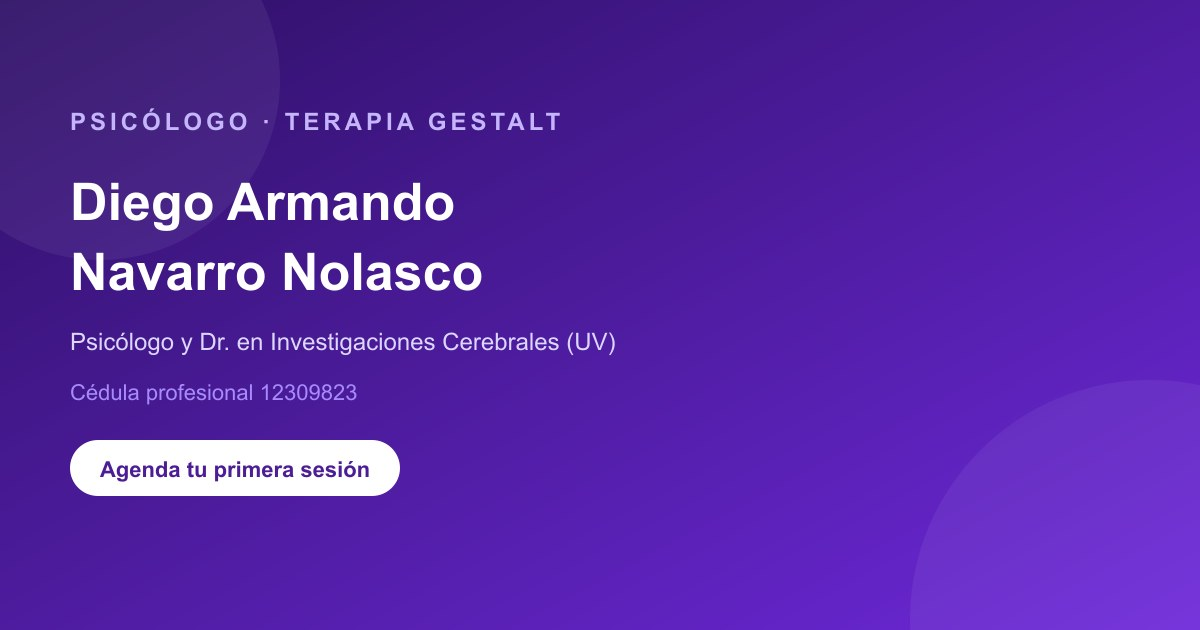
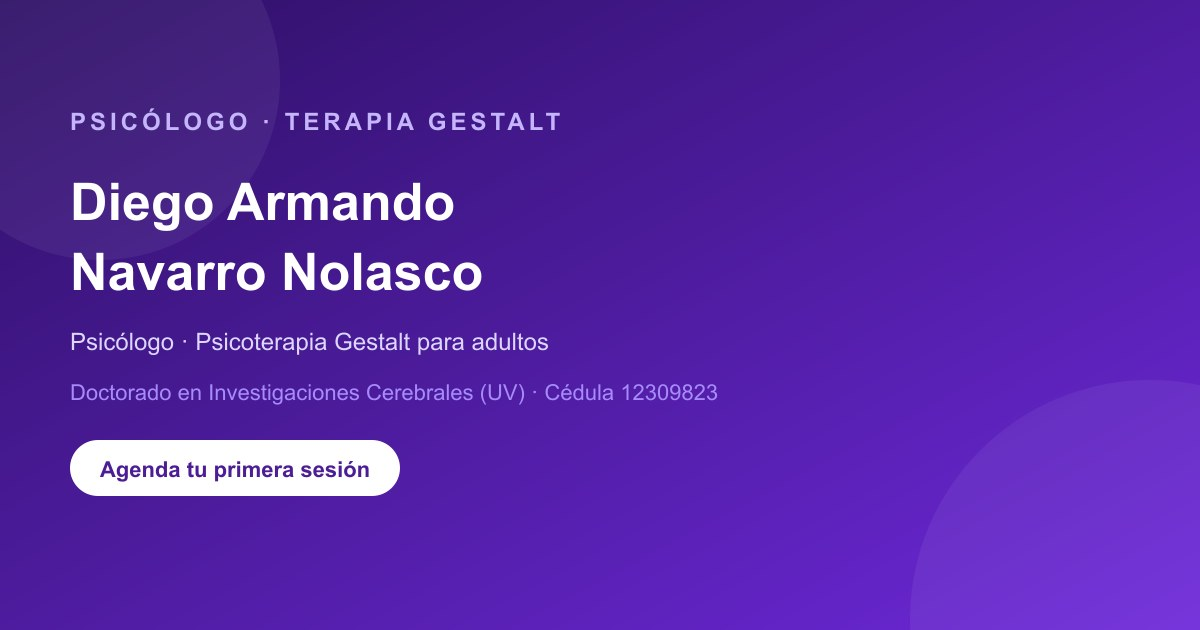
fix: dictamen - quitar Dr. (grado en proceso), JSON-LD Person+ProfessionalService, lenguaje cientifico prudente, enlaces y avisos

Changed region(s): [[0.1542, 0.5127, 0.5242, 0.573], [0.0617, 0.6032, 0.6167, 0.6333]]

diff --git a/src/app/page.tsx b/src/app/page.tsx
@@ -1,4 +1,4 @@
-import { Metadata } from 'next';
+import { MessageSquare } from 'lucide-react';
 import Hero from '@/components/Hero';
 import About from '@/components/About';
 import Services from '@/components/Services';
@@ -7,11 +7,6 @@ import Research from '@/components/Research';
 import Contact from '@/components/Contact';
 import Footer from '@/components/Footer';
 import JsonLd from '@/components/JsonLd';
-
-export const metadata: Metadata = {
-  title: 'Diego Armando Navarro Nolasco | Psicólogo Gestalt y Dr. en Neurociencias | Xalapa',
-  description: 'Terapia Gestalt para adultos con enfoque en el aquí y ahora. Doctor en Investigaciones Cerebrales (UV). Presencial en Xalapa y en línea. Agenda tu cita.',
-};
 
 export default function HomePage() {
   return (
@@ -31,7 +26,7 @@ export default function HomePage() {
           </div>
           <div className="flex md:hidden items-center gap-4">
             <a href="https://wa.me/523316360640" target="_blank" rel="noopener noreferrer" className="btn-whatsapp text-sm px-4 py-2" aria-label="Contactar por WhatsApp">
-              <svg className="w-5 h-5" fill="currentColor" viewBox="0 0 24 24" aria-hidden="true"><path d="M17.472 14.382c-.297-.149-1.758-.867-2.03-.967-.273-.099-.471-.148-.67.15-.197.297-.767.966-.94 1.164-.173.199-.347.223-.644.075-.297-.15-1.255-.463-2.39-1.475-.883-.788-1.48-1.761-1.653-2.059-.173-.297-.018-.458.13-.606.134-.133.298-.347.446-.52.149-.174.198-.298.298-.472.099-.174.05-.369-.025-.52-.075-.149-.669-1.612-.916-2.207-.242-.579-.487-.5-.669-.51-.173-.008-.369-.01-.543-.01-.185 0-.36.01-.534.01-.297.01-.644.16-.945.52-.298.348-.768.965-.882 1.28-.114.313-.114.673-.114.814 0 .149.095.348.114.473.02.134.115.314.298.574.39.543 1.257 1.767 2.13 2.752.875.986 1.255 1.73 1.255 1.914 0 .099-.1.198-.21.198-.124 0-.238-.01-.352-.01-.372 0-.493-.249-.53-.279a.75.75 0 0 0-.28-.124c-.135 0-.27.01-.393.01-.24.02-.46.1-.643.23-.264.19-.472.45-.472.674 0 .314.342.615.76.904.25.173.387.215.587.193.278-.03.507-.216.724-.52.217-.304.39-.705.39-.924 0-.185-.094-.43-.21-.614-.116-.185-.36-.334-.57-.354a.75.75 0 0 0-.584-.01c-.278.01-.543.154-.79.42-.484.52-1.09 1.42-1.572 2.295-.483.874-.785 1.559-.824 1.736-.038.175-.104.354-.15.52-.03.1-.045.184-.065.264-.01.075-.03.174-.06.258-.03.08-.054.14-.084.2-.03.06-.054.105-.084.15-.03.045-.06.09-.08.134zM12 2C6.477 2 2 6.484 2 12c0 2.652 1.067 5.088 2.838 6.893.113.114.2.24.274.384l.036.064c.05.084.084.16.12.24.01.024.024.05.024.084l.013.046a17.6 17.6 0 0 0 .37 1.434c.085.2.16.41.24.62.08.2.17.4.25.61a24.5 24.5 0 0 0 .695 2.33c.154.42.32.83.5.1.24.24.49.47.75.69.27.22.55.43.84.63.1.06.2.1.3.15.1.04.21.05.3.05h.02a15.5 15.5 0 0 0 1.42-.02c.24-.01.48-.06.7-.19.23-.14.44-.3.63-.48.18-.18.35-.37.5-.57.16-.19.3-.39.45-.6.14-.2.27-.41.39-.62.13-.21.25-.43.37-.65.12-.22.23-.45.33-.68.1-.23.2-.46.28-.69.09-.23.17-.47.24-.7.07-.23.13-.47.17-.7.04-.24.06-.48.08-.72.02-.24.03-.48.03-.72a12 12 0 0 0-.02-1.4c-.01-.35-.04-.7-.08-1.04-.03-.35-.08-.69-.14-1.03-.06-.34-.14-.67-.23-.99-.08-.32-.18-.63-.29-.93-.1-.3-.22-.59-.35-.87-.13-.28-.27-.55-.42-.81-.15-.26-.31-.5-.48-.73-.17-.23-.35-.45-.54-.65-.19-.2-.39-.39-.6-.57-.2-.17-.42-.32-.65-.45-.23-.13-.47-.24-.71-.33-.24-.09-.48-.16-.72-.21-.24-.06-.48-.1-.72-.13-.23-.03-.47-.04-.7-.04h-.02c-.27 0-.54.01-.8.04-.26.03-.51.09-.75.16-.24.07-.47.16-.69.26-.22.1-.43.22-.63.35-.2.13-.39.28-.57.44-.18.16-.35.33-.5.51-.15.18-.3.37-.43.56-.13.19-.25.39-.36.6-.11.2-.21.41-.3.62-.09.21-.17.43-.24.65-.07.22-.13.44-.18.66-.05.22-.08.44-.1.66-.02.22-.03.44-.03.66a12 12 0 0 0 .02 1.4c0 .35.01.7.04 1.04.03.35.08.69.14 1.03.06.34.14.67.23.99.08.32.18.63.29.93.1.3.22.59.35.87.13.28.27.55.42.81.15.26.31.5.48.73.17.23.35.45.54.65.19.2.39.39.6.57.2.17.42.32.65.45.23.13.47.24.71.33.24.09.48.16.72.21.24.06.48.1.72.13.23.03.47.04.7.04h.02c.27 0 .54-.01.8-.04.26-.03.51-.09.75-.16.24-.07.47-.16.69-.26.22-.1.43-.22.63-.35.2-.13.39-.28.57-.44.18-.16.35-.33.5-.51.15-.18.3-.37.43-.56.13-.19.25-.39.36-.6.11-.2.21-.41.3-.62.09-.21.17-.43.24-.65.07-.22.13-.44.18-.66.05-.22.08-.44.1-.66.02-.22.03-.44.03-.66 0-.18-.01-.35-.02-.53-.01-.17-.03-.34-.06-.5-.02-.15-.05-.3-.08-.45-.03-.14-.06-.28-.1-.42-.04-.13-.08-.26-.13-.38-.05-.13-.1-.25-.16-.37-.06-.12-.12-.23-.19-.33-.07-.1-.14-.19-.22-.28-.08-.08-.16-.16-.25-.23-.09-.07-.18-.14-.27-.2-.09-.06-.18-.12-.27-.18-.09-.06-.18-.11-.27-.17-.09-.05-.17-.11-.26-.16-.09-.06-.18-.12-.27-.18-.09-.06-.18-.11-.27-.17-.09-.05-.17-.1-.26-.15z"/></svg>
+              <MessageSquare className="w-5 h-5" aria-hidden="true" />
               WhatsApp
             </a>
           </div>

diff --git a/src/app/privacidad/page.tsx b/src/app/privacidad/page.tsx
@@ -3,7 +3,7 @@ import Link from 'next/link';
 
 export const metadata: Metadata = {
   title: 'Aviso de Privacidad | Diego Armando Navarro Nolasco - Psicólogo',
-  description: 'Aviso de privacidad conforme a la Ley Federal de Protección de Datos Personales en Posesión de los Particulares (México).',
+  description: 'Aviso de privacidad conforme a la normativa federal mexicana vigente en materia de protección de datos personales.',
 };
 
 export default function PrivacidadPage() {
@@ -20,7 +20,7 @@ export default function PrivacidadPage() {
           <section>
             <h2 className="text-xl font-semibold text-neutral-900 mb-3">1. Responsable del tratamiento</h2>
             <p>
-              Lic. Diego Armando Navarro Nolasco, Licenciado en Psicología y Doctor en Investigaciones Cerebrales, Cédula profesional 12309823, con consultorio presencial en Xalapa, Veracruz, México.
+              Lic. Diego Armando Navarro Nolasco, Licenciado en Psicología con formación doctoral en Investigaciones Cerebrales (Universidad Veracruzana, grado en proceso), Cédula profesional 12309823, con consultorio presencial en Xalapa, Veracruz, México.
             </p>
             <p>
               Contacto: WhatsApp 331 636 0640 · danavarro2040@gmail.com
@@ -46,7 +46,7 @@ export default function PrivacidadPage() {
               <li>Emitir comprobantes de pago si aplica.</li>
             </ul>
             <p className="mt-3">
-              Los datos personales <strong>sensibles</strong> (salud, información psicológica) solo se tratarán con tu consentimiento expreso, conforme al artículo 9 de la LFPDPPP.
+              Los datos personales <strong>sensibles</strong> (salud, información psicológica) solo se tratarán con tu consentimiento expreso, conforme a la normativa federal vigente en materia de protección de datos personales en posesión de particulares (México). Este aviso requiere revisión jurídica especializada antes de considerarse documento definitivo.
             </p>
           </section>
 
@@ -65,9 +65,12 @@ export default function PrivacidadPage() {
           </section>
 
           <section>
-            <h2 className="text-xl font-semibold text-neutral-900 mb-3">6. Cookies y servicios de terceros</h2>
+            <h2 className="text-xl font-semibold text-neutral-900 mb-3">6. Cookies y proveedores tecnológicos</h2>
             <p>
-              Este sitio web no utiliza cookies de rastreo. Al agendar citas a través de <strong>Calendly</strong> o enviar el formulario de contacto (gestionado por <strong>Formspree</strong>), tus datos se tratan conforme a las políticas de privacidad de dichos servicios, y se utilizan exclusivamente para responder a tu solicitud o gestionar tu cita. No se comparten con otros terceros, salvo obligación legal.
+              Este sitio web no utiliza cookies de rastreo. Al agendar citas a través de <strong>Calendly</strong> o enviar el formulario de contacto (gestionado por <strong>Formspree</strong>), estos servicios actúan como <strong>encargados del tratamiento</strong>: reciben y almacenan tus datos para operar sus plataformas y pueden implicar transferencias a servidores fuera de México. Tus datos se utilizan exclusivamente para responder a tu solicitud o gestionar tu cita y no se comparten con otros terceros, salvo obligación legal.
+            </p>
+            <p className="mt-3">
+              Los datos capturados por el sitio web (formulario y agendamiento) se mantienen <strong>separados del expediente clínico</strong>, que se integra únicamente a partir de la primera sesión.
             </p>
           </section>
 

diff --git a/src/components/Research.tsx b/src/components/Research.tsx
@@ -13,7 +13,7 @@ const publications = [
     title: 'Electroencefalografía en reposo en el trastorno del espectro autista: revisión narrativa de patrones, conectividad y biomarcadores funcionales',
     venue: 'Revista eNeurobiología, UV · 2025',
     doi: '10.25009/eb.v16i41.2652',
-    url: 'https://eneurobiologia.uv.mx/index.php/eneurobiologia/article/view/2539',
+    url: 'https://eneurobiologia.uv.mx/index.php/eneurobiologia/article/view/2652',
   },
 ];
 
@@ -21,13 +21,13 @@ const news = [
   {
     title: 'Apoyo social es vital para la salud mental de jóvenes',
     source: 'Universo · Sistema de noticias de la UV',
-    description: 'Cobertura de su tesis doctoral sobre biomarcadores de ansiedad con EEG y Big Data.',
+    description: 'Cobertura de su investigación doctoral sobre asociaciones entre ansiedad, apoyo social y EEG.',
     url: 'https://www.uv.mx/prensa/general/apoyo-social-es-vital-para-la-salud-mental-de-jovenes/',
   },
   {
     title: 'Apoyo social es vital para la salud mental de jóvenes',
     source: 'La Silla Rota · Veracruz',
-    description: 'Sueño, soledad percibida y ciclo ovárico alteran las ondas cerebrales, según su estudio.',
+    description: 'Estudio exploratorio sobre diferencias en patrones de EEG asociadas con ansiedad, apoyo social y variables contextuales.',
     url: 'https://lasillarota.com/veracruz/local/2026/2/21/apoyo-social-es-vital-para-la-salud-mental-de-jovenes-587852.html',
   },
 ];
@@ -45,7 +45,7 @@ export default function Research() {
             Lo que aprendí del <span className="text-primary-700">cerebro</span>
           </h2>
           <p className="section-subtitle mx-auto">
-            Mi tesis doctoral midió la ansiedad en las ondas cerebrales de jóvenes con EEG: el bienestar se construye en la relación y en el cuerpo.
+            Mi investigación doctoral exploró asociaciones entre ansiedad, apoyo social percibido y patrones de EEG en reposo en jóvenes adultos sanos. Resultados exploratorios, no biomarcadores diagnósticos.
           </p>
         </div>
 

diff --git a/src/components/Hero.tsx b/src/components/Hero.tsx
@@ -14,9 +14,9 @@ export default function Hero() {
         fill
         priority
         sizes="100vw"
-        className="object-cover object-center"
+        className="object-cover object-[50%_20%]"
       />
-      <div className="absolute inset-0 bg-gradient-to-r from-violet-950/95 via-primary-800/85 to-primary-600/60" aria-hidden="true" />
+      <div className="absolute inset-0 bg-gradient-to-r from-violet-950/90 via-primary-800/75 to-primary-600/45" aria-hidden="true" />
       <div className="absolute inset-0 bg-[url('/grid.svg')] bg-center bg-[length:60px_60px] opacity-5" aria-hidden="true" />
 
       <div className="relative section-container py-24 lg:py-32 w-full">
@@ -26,7 +26,7 @@ export default function Hero() {
               <span className="animate-ping absolute inline-flex h-full w-full rounded-full bg-violet-300 opacity-75" />
               <span className="relative inline-flex rounded-full h-2 w-2 bg-violet-200" />
             </span>
-            Doctor en Investigaciones Cerebrales · Terapia Gestalt
+            Psicólogo · Psicoterapia Gestalt para adultos · Investigación en neurociencias
           </div>
 
           <h1 id="hero-title" className="text-4xl sm:text-5xl lg:text-6xl font-display font-bold tracking-tight text-white leading-tight animate-fade-in-up delay-200">
@@ -64,7 +64,7 @@ export default function Hero() {
           <div className="mt-10 flex flex-wrap items-center gap-6 text-sm text-violet-100 animate-fade-in-up delay-400">
             <div className="flex items-center gap-2">
               <Brain className="w-5 h-5 text-violet-200 flex-shrink-0" aria-hidden="true" />
-              <span>Dr. en Investigaciones Cerebrales (UV)</span>
+              <span>Doctorado en Investigaciones Cerebrales (UV)</span>
             </div>
             <div className="flex items-center gap-2">
               <CheckCircle className="w-5 h-5 text-violet-200 flex-shrink-0" aria-hidden="true" />

diff --git a/src/components/JsonLd.tsx b/src/components/JsonLd.tsx
@@ -3,18 +3,16 @@
 export default function JsonLd() {
   const jsonLd = {
     '@context': 'https://schema.org',
-    '@type': 'Physician',
+    '@type': ['Person', 'ProfessionalService'],
     name: 'Diego Armando Navarro Nolasco',
     alternateName: 'Diego Navarro',
-    description: 'Psicólogo y Doctor en Investigaciones Cerebrales (Universidad Veracruzana). Terapia Gestalt individual para adultos. Presencial en Xalapa, Veracruz y en línea.',
+    jobTitle: 'Psicólogo',
+    description: 'Psicólogo con formación en Psicoterapia Gestalt para adultos e investigación en neurociencias. Terapia individual para adultos, presencial en Xalapa, Veracruz y en línea.',
     url: 'https://psicologo-diego-navarro.vercel.app',
     logo: 'https://psicologo-diego-navarro.vercel.app/icon-512.png',
     image: 'https://psicologo-diego-navarro.vercel.app/og-image.jpg',
     sameAs: [
-      'https://wa.me/523316360640',
       'https://www.linkedin.com/in/diego-navarro-a4a56207',
-      'https://calendly.com/danavarro2040/30min',
-      'https://www.uv.mx/prensa/general/apoyo-social-es-vital-para-la-salud-mental-de-jovenes/',
     ],
     knowsAbout: [
       'Terapia Gestalt',
@@ -25,11 +23,10 @@ export default function JsonLd() {
       'Autoestima',
       'Regulación emocional',
       'Duelo y pérdidas',
-      'Biomarcadores de ansiedad',
+      'Electroencefalografía en reposo y variables psicosociales',
       'Electroencefalografía',
     ],
-    medicalSpecialty: 'Psychiatry',
-    credential: 'Cédula profesional 12309823 · Doctor en Investigaciones Cerebrales (Universidad Veracruzana)',
+    credential: 'Cédula profesional 12309823 · Doctorado en Investigaciones Cerebrales (Universidad Veracruzana): formación concluida, grado en proceso',
     alumniOf: [
       {
         '@type': 'EducationalOrganization',

diff --git a/src/components/About.tsx b/src/components/About.tsx
@@ -11,9 +11,9 @@ const credentials = [
   },
   {
     icon: Award,
-    title: 'Dr. en Investigaciones Cerebrales',
+    title: 'Doctorado en Investigaciones Cerebrales',
     institution: 'Universidad Veracruzana (IICE)',
-    year: 'Titulado · Febrero 2026',
+    year: 'Formación concluida · Grado en proceso',
   },
   {
     icon: BookOpen,
@@ -55,10 +55,10 @@ export default function About() {
               Ciencia del cerebro, <span className="text-primary-700">corazón Gestalt</span>
             </h2>
             <p className="mt-6 text-neutral-600 leading-relaxed">
-              Soy psicólogo y doctor en Investigaciones Cerebrales por la Universidad Veracruzana. Mi camino une dos mundos: la rigurosidad de la neurociencia y la calidez de la terapia Gestalt.
+              Soy psicólogo con formación doctoral en Investigaciones Cerebrales por la Universidad Veracruzana. Mi camino une dos mundos: la rigurosidad de la neurociencia y la calidez de la terapia Gestalt.
             </p>
             <p className="mt-4 text-neutral-600 leading-relaxed">
-              En mi tesis doctoral medí la ansiedad en las ondas cerebrales de jóvenes con electroencefalograma. Esa curiosidad me acompaña en consulta: cada persona es única, y el cambio real viene de darse cuenta.
+              Mi investigación doctoral exploró asociaciones entre ansiedad, apoyo social percibido y patrones de electroencefalografía en reposo en adultos jóvenes sanos. Resultados exploratorios, y con esa misma rigurosidad acompaño cada proceso: cada persona es única, y el cambio real viene de darse cuenta.
             </p>
             <p className="mt-4 text-neutral-600 leading-relaxed">
               Acompaño a adultos con ansiedad, depresión, autoestima y transiciones, presencial en Xalapa o en línea.

diff --git a/src/app/layout.tsx b/src/app/layout.tsx
@@ -16,8 +16,8 @@ const plusJakartaSans = Plus_Jakarta_Sans({
 
 export const metadata: Metadata = {
   metadataBase: new URL('https://psicologo-diego-navarro.vercel.app'),
-  title: 'Diego Armando Navarro Nolasco | Psicólogo Gestalt y Dr. en Neurociencias | Xalapa',
-  description: 'Terapia Gestalt para adultos con enfoque en el aquí y ahora. Doctor en Investigaciones Cerebrales (UV), cédula 12309823. Presencial en Xalapa y en línea.',
+  title: 'Diego Armando Navarro Nolasco | Psicólogo y Psicoterapia Gestalt | Xalapa y en línea',
+  description: 'Psicoterapia Gestalt individual para adultos, presencial en Xalapa y en línea. Psicólogo con formación doctoral en Investigaciones Cerebrales (UV), cédula 12309823.',
   keywords: ['psicólogo', 'terapia gestalt', 'psicología', 'Xalapa', 'terapia online', 'salud mental', 'ansiedad', 'depresión', 'neurociencias', 'Diego Navarro', 'Navarro Nolasco'],
   authors: [{ name: 'Diego Armando Navarro Nolasco' }],
   creator: 'Diego Armando Navarro Nolasco',
@@ -27,8 +27,8 @@ export const metadata: Metadata = {
     type: 'website',
     locale: 'es_MX',
     url: 'https://psicologo-diego-navarro.vercel.app',
-    title: 'Diego Armando Navarro Nolasco | Psicólogo Gestalt y Dr. en Neurociencias',
-    description: 'Terapia Gestalt para adultos. Doctor en Investigaciones Cerebrales (UV). Presencial en Xalapa y en línea. Cédula 12309823.',
+    title: 'Diego Armando Navarro Nolasco | Psicólogo y Psicoterapia Gestalt',
+    description: 'Psicoterapia Gestalt para adultos. Psicólogo con formación doctoral en Investigaciones Cerebrales (UV). Presencial en Xalapa y en línea. Cédula 12309823.',
     siteName: 'Diego Armando Navarro Nolasco - Psicólogo',
     images: [
       {

diff --git a/src/components/Services.tsx b/src/components/Services.tsx
@@ -5,23 +5,23 @@ import { Brain, Cloud, Heart, Anchor, User, Video } from 'lucide-react';
 const services = [
   {
     icon: Brain,
-    title: 'Ansiedad y estrés',
-    description: 'Preocupación constante, tensión que no cede. Aprendemos a escuchar la señal de tu cuerpo.',
+    title: 'Ansiedad, estrés y preocupación persistente',
+    description: 'Tensión que no cede, pensamientos que se repiten. Aprendemos a escuchar la señal de tu cuerpo.',
   },
   {
     icon: Cloud,
-    title: 'Depresión y tristeza',
-    description: 'Falta de energía, pérdida de interés, vacío. Un espacio para volver a habitar tu vida.',
+    title: 'Desánimo, tristeza y pérdida de interés',
+    description: 'Falta de energía, vacío. Un espacio para volver a habitar tu vida.',
   },
   {
     icon: Heart,
-    title: 'Autoestima y relaciones',
+    title: 'Autoestima, límites y relaciones',
     description: 'Autocrítica, inseguridad, límites difíciles. Sanar el vínculo contigo para sanar con otros.',
   },
   {
     icon: Anchor,
-    title: 'Transiciones de vida',
-    description: 'Duelos, separaciones, cambios de etapa. Crisis que son puertas hacia otra forma de vivir.',
+    title: 'Duelos y transiciones vitales',
+    description: 'Separaciones, cambios de etapa. Crisis que son puertas hacia otra forma de vivir.',
   },
 ];
 

diff --git a/src/components/Approach.tsx b/src/components/Approach.tsx
@@ -11,7 +11,7 @@ const principles = [
   {
     icon: Sun,
     title: 'Aquí y ahora',
-    description: 'Trabajamos con lo que traes hoy a la sesión, no con lecturas lejanas de tu historia.',
+    description: 'Trabajamos principalmente con la experiencia que aparece en el presente, reconociendo que tu historia y contexto también participan.',
   },
   {
     icon: Hand,
@@ -29,7 +29,7 @@ const processSteps = [
   {
     number: '01',
     title: 'Nos conocemos',
-    description: 'Primera sesión para escucharte y sentir si conectamos. Sin compromiso.',
+    description: 'Primera sesión de valoración y encuentro: comprender tu motivo, acordar objetivos iniciales y ver si esta modalidad encaja. No obliga a continuar.',
   },
   {
     number: '02',
@@ -56,7 +56,7 @@ export default function Approach() {
             Terapia <span className="text-primary-700">Gestalt</span>
           </h2>
           <p className="section-subtitle mx-auto">
-            La Gestalt no etiqueta síntomas: te acompaña a vivir con más conciencia y libertad.
+            Los diagnósticos pueden orientar la comprensión clínica, pero no agotan la singularidad de una persona ni determinan por sí solos el proceso terapéutico.
           </p>
         </div>
 

diff --git a/scripts/generate-assets.js b/scripts/generate-assets.js
@@ -37,8 +37,8 @@ async function generateOgImage() {
       <text x="70" y="130" font-family="Arial" font-size="24" fill="#c4b5fd" font-weight="bold" letter-spacing="4">PSICÓLOGO · TERAPIA GESTALT</text>
       <text x="70" y="220" font-family="Arial" font-size="52" fill="#ffffff" font-weight="bold">Diego Armando</text>
       <text x="70" y="290" font-family="Arial" font-size="52" fill="#ffffff" font-weight="bold">Navarro Nolasco</text>
-      <text x="70" y="350" font-family="Arial" font-size="24" fill="#ddd6fe">Psicólogo y Dr. en Investigaciones Cerebrales (UV)</text>
-      <text x="70" y="400" font-family="Arial" font-size="22" fill="#a78bfa">Cédula profesional 12309823</text>
+      <text x="70" y="350" font-family="Arial" font-size="24" fill="#ddd6fe">Psicólogo · Psicoterapia Gestalt para adultos</text>
+      <text x="70" y="400" font-family="Arial" font-size="22" fill="#a78bfa">Doctorado en Investigaciones Cerebrales (UV) · Cédula 12309823</text>
       <rect x="70" y="440" width="330" height="56" rx="28" fill="#ffffff"/>
       <text x="235" y="477" font-family="Arial" font-size="22" fill="#4c1d95" font-weight="bold" text-anchor="middle">Agenda tu primera sesión</text>
     </svg>`

diff --git a/src/app/sitemap.ts b/src/app/sitemap.ts
@@ -6,25 +6,25 @@ export default function sitemap(): MetadataRoute.Sitemap {
   return [
     {
       url: baseUrl,
-      lastModified: new Date(),
+      lastModified: '2026-08-01',
       changeFrequency: 'monthly',
       priority: 1,
     },
     {
       url: `${baseUrl}/privacidad`,
-      lastModified: new Date(),
+      lastModified: '2026-08-01',
       changeFrequency: 'yearly',
       priority: 0.3,
     },
     {
       url: `${baseUrl}/terminos`,
-      lastModified: new Date(),
+      lastModified: '2026-08-01',
       changeFrequency: 'yearly',
       priority: 0.3,
     },
     {
       url: `${baseUrl}/consentimiento`,
-      lastModified: new Date(),
+      lastModified: '2026-08-01',
       changeFrequency: 'yearly',
       priority: 0.3,
     },

diff --git a/src/components/Footer.tsx b/src/components/Footer.tsx
@@ -63,7 +63,7 @@ export default function Footer() {
               <span className="font-display font-bold text-xl text-white">Diego Navarro</span>
             </div>
             <p className="text-neutral-400 max-w-xs leading-relaxed">
-              Psicólogo y Dr. en Investigaciones Cerebrales (UV). Terapia Gestalt individual para adultos, presencial en Xalapa y en línea.
+              Psicólogo con formación doctoral en Investigaciones Cerebrales (UV). Terapia Gestalt individual para adultos, presencial en Xalapa y en línea.
             </p>
             <div className="flex flex-wrap gap-3 pt-2">
               {socialLinks.map((social, index) => (
